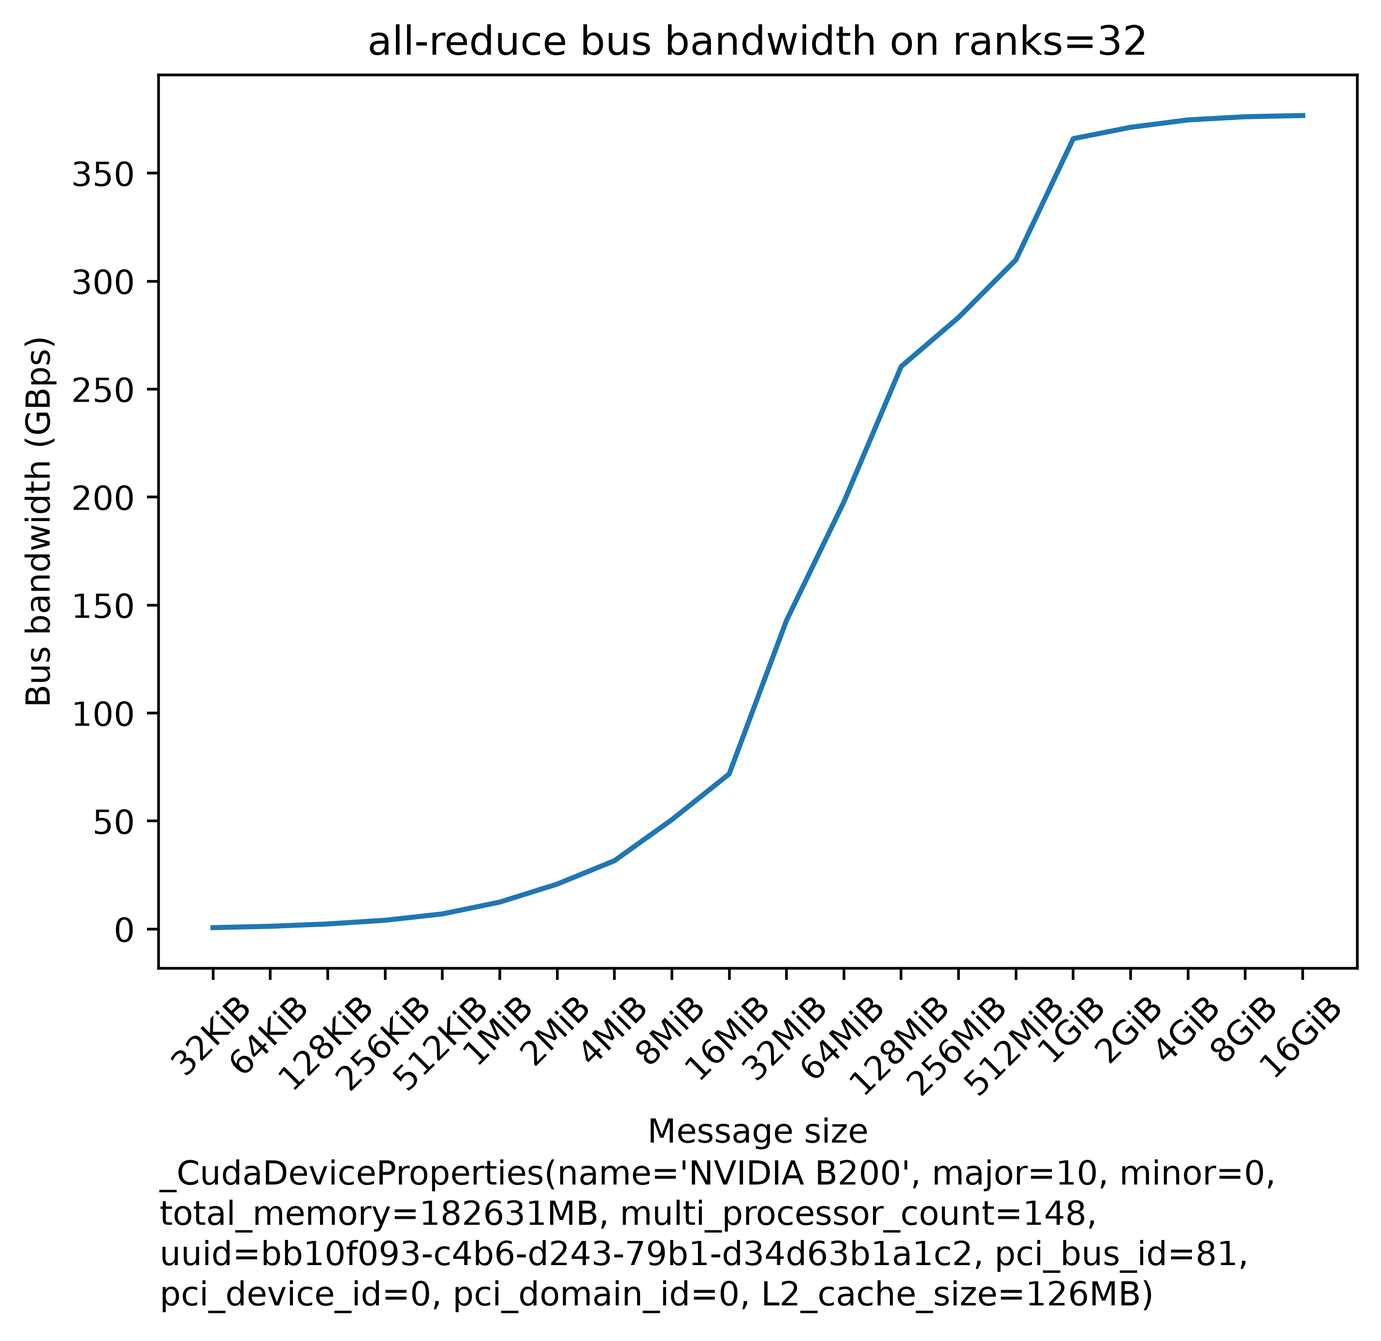
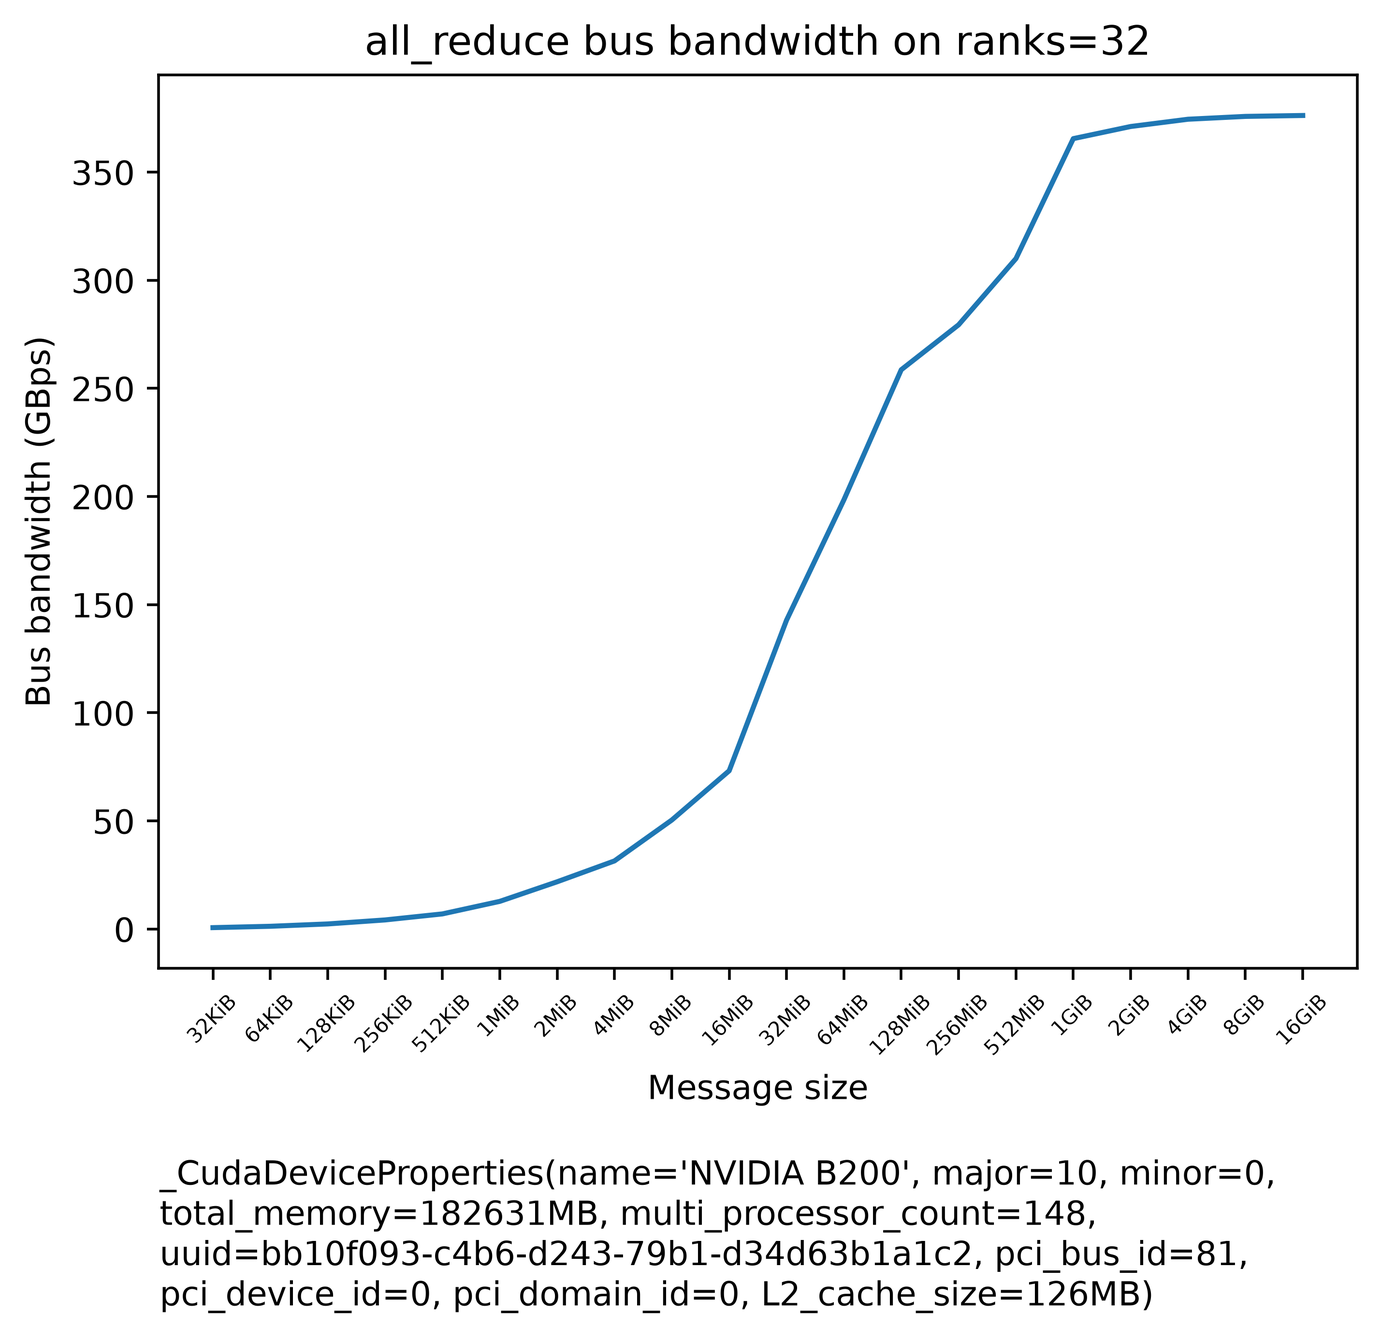
updates

diff --git a/network/benchmarks/README.md b/network/benchmarks/README.md
@@ -10,32 +10,45 @@
 
 footnote: Its previous incarnation was known as `all_reduce_bench.py` as it measured just the all-reduce collective.
 
-On 4 8x-B200 nodes it give us:
+On 4 8x B200 nodes (`torch=2.14.1+cu130`, `cuda=13.0`, `nccl=2.30.7`, 30 seconds for the whole sweep) it gives us:
 ```
-The average bandwidth of all_reduce over 32 ranks (5 warmups / 20 trials, up to 10 queued calls per trial):
+The average bandwidth and the per-call latency of all_reduce over 32 ranks (at least 5 warmups / 20 trials, up to 10 queued calls per trial):
 
-| payload |    busbw   |    algbw   |
-| ------: | ---------: | ---------: |
-|   32KiB |   0.65GBps |   0.33GBps |
-|   64KiB |   1.27GBps |   0.66GBps |
-|  128KiB |   2.35GBps |   1.21GBps |
-|  256KiB |   4.06GBps |   2.10GBps |
-|  512KiB |   6.99GBps |   3.61GBps |
-|    1MiB |  12.47GBps |   6.44GBps |
-|    2MiB |  20.79GBps |  10.73GBps |
-|    4MiB |  31.63GBps |  16.33GBps |
-|    8MiB |  50.61GBps |  26.12GBps |
-|   16MiB |  71.80GBps |  37.06GBps |
-|   32MiB | 142.90GBps |  73.76GBps |
-|   64MiB | 197.77GBps | 102.07GBps |
-|  128MiB | 260.50GBps | 134.45GBps |
-|  256MiB | 283.23GBps | 146.18GBps |
-|  512MiB | 309.91GBps | 159.95GBps |
-|    1GiB | 365.99GBps | 188.90GBps |
-|    2GiB | 371.26GBps | 191.62GBps |
-|    4GiB | 374.66GBps | 193.37GBps |
-|    8GiB | 376.14GBps | 194.14GBps |
-|   16GiB | 376.71GBps | 194.43GBps |
+| payload |   busbw    |   algbw    |              latency              | calls |
+|         |            |            |   median  |    p99    |    mean   |       |
+| ------: | ---------: | ---------: | --------: | --------: | --------: | ----: |
+|      8B |            |            |    81.9us |    88.0us |    81.9us |   810 |
+|     16B |            |            |    81.6us |    89.4us |    81.7us |   828 |
+|     32B |            |            |    82.0us |    91.8us |    82.2us |   783 |
+|     64B |            |            |    82.5us |    92.7us |    82.8us |   783 |
+|    128B |            |            |    83.0us |    89.8us |    83.3us |   792 |
+|    256B |            |            |    83.9us |    94.5us |    83.9us |   774 |
+|    512B |            |            |    84.1us |    98.5us |    84.8us |   783 |
+|    1KiB |            |            |    85.4us |    90.1us |    85.6us |   810 |
+|    2KiB |            |            |    89.5us |    95.3us |    89.7us |   738 |
+|    4KiB |            |            |    99.3us |   105.1us |    99.3us |   666 |
+|    8KiB |            |            |   102.3us |   114.8us |   102.4us |   765 |
+|   16KiB |            |            |   102.4us |   118.8us |   103.9us |   711 |
+|   32KiB |   0.64GBps |   0.33GBps |   104.5us |   119.7us |   105.4us |   738 |
+|   64KiB |   1.27GBps |   0.65GBps |   106.5us |   123.8us |   107.2us |   504 |
+|  128KiB |   2.35GBps |   1.21GBps |   114.6us |   130.6us |   115.1us |   252 |
+|  256KiB |   4.20GBps |   2.17GBps |   128.1us |   138.3us |   128.4us |   126 |
+|  512KiB |   6.99GBps |   3.61GBps |   151.7us |   168.2us |   153.2us |   126 |
+|    1MiB |  12.78GBps |   6.60GBps |   165.9us |   187.0us |   167.0us |   153 |
+|    2MiB |  21.84GBps |  11.27GBps |   193.1us |   205.1us |   193.8us |   162 |
+|    4MiB |  31.49GBps |  16.25GBps |   261.3us |   281.2us |   262.9us |   171 |
+|    8MiB |  50.40GBps |  26.01GBps |   331.8us |   344.1us |   332.7us |   144 |
+|   16MiB |  73.17GBps |  37.77GBps |   452.7us |   469.2us |   454.2us |   180 |
+|   32MiB | 142.79GBps |  73.70GBps |   473.2us |   498.5us |   474.8us |   162 |
+|   64MiB | 198.44GBps | 102.42GBps |   686.2us |   709.2us |   688.0us |   180 |
+|  128MiB | 258.60GBps | 133.47GBps |  1027.2us |  1068.6us |  1029.2us |   140 |
+|  256MiB | 279.38GBps | 144.20GBps |  1961.0us |  2112.0us |  1960.1us |    60 |
+|  512MiB | 310.01GBps | 160.00GBps |  3428.2us |  3822.2us |  3452.6us |    20 |
+|    1GiB | 365.47GBps | 188.63GBps |  5801.0us |  5926.7us |  5806.3us |    20 |
+|    2GiB | 371.07GBps | 191.52GBps | 11307.0us | 11423.6us | 11319.9us |    20 |
+|    4GiB | 374.44GBps | 193.26GBps | 22362.0us | 22451.0us | 22376.0us |    20 |
+|    8GiB | 375.75GBps | 193.93GBps | 44532.8us | 44775.3us | 44549.5us |    20 |
+|   16GiB | 376.17GBps | 194.15GBps | 88813.6us | 89220.5us | 88832.0us |    20 |
 ```
 
 Read the normalized `busbw` column rather than `algbw` - [PERFORMANCE.md](https://github.com/NVIDIA/nccl-tests/blob/master/doc/PERFORMANCE.md#bandwidth) explains why. Like `nccl-tests`, the benchmark measures a unidirectional bandwidth, so compare it against the advertised unidirectional peak throughput, not the bidirectional (duplex) one.
@@ -51,7 +64,7 @@ Here is the same benchmark on a single 8x H200 node (`torch=2.14.0+cu130`, `cuda
 
 Note the linear y-axis compresses everything below ~100GBps into the bottom of the plot, so the small-payload end - the part that matters for gradient bucketing - is easier to read off the `default` column of the table in [How the bandwidth is measured](#how-the-bandwidth-is-measured), measured on the same node, than off the curve. That sweep tops out at 482.35GBps, which is *above* the 450GBps unidirectional [NVLink 4](../README.md#nvlink) spec rather than below it; see [SHARP](../README.md#sharp) for why, and for what the same node measures with it disabled.
 
-[Inter-node speed depends on intra-node speed](../README.md#inter-node-speed-depends-on-intra-node-speed) explains why a 4 node-benchmark (32 ranks) tops out at 376.71GBps when a single node (8 ranks) of the same B200s reaches 838.97GBps, and what the number means for each NIC.
+[Inter-node speed depends on intra-node speed](../README.md#inter-node-speed-depends-on-intra-node-speed) explains why a 4 node-benchmark (32 ranks) tops out at 376.17GBps when a single node (8 ranks) of the same B200s reaches 839.00GBps, and what the number means for each NIC.
 
 For launching examples please see the top of [torch-dist-bench.py](torch-dist-bench.py). You can interrupt the benchmark with Ctrl-C, and it'll still report the results it measured up to that point.
 
@@ -115,6 +128,21 @@ And all-reduce is the best case: NCCL gives only all-reduce its tree algorithm, 
 
 ![all-reduce-bench latency 8x H200](images/all-reduce-bench-latency-8xh200.png)
 
+On B200s the latency also shows what it costs to leave the node. Here is the all-reduce latency on one 8x B200 node and on 4 of them, from the same run as the table at the top:
+
+| payload | 8 ranks<br>median | 8 ranks<br>p99 | 32 ranks<br>median | 32 ranks<br>p99 | 32 / 8<br>median |
+| ------: | ----------------: | -------------: | -----------------: | --------------: | ---------------: |
+|      8B |            23.0µs |         25.1µs |             81.9µs |          88.0µs |             3.6x |
+|    1KiB |            29.5µs |         31.8µs |             85.4µs |          90.1µs |             2.9x |
+|   16KiB |            30.7µs |         32.8µs |            102.4µs |         118.8µs |             3.3x |
+|  128KiB |            32.8µs |         34.8µs |            114.6µs |         130.6µs |             3.5x |
+|  512KiB |            35.8µs |         38.0µs |            151.7µs |         168.2µs |             4.2x |
+|    1MiB |            35.9µs |         39.8µs |            165.9µs |         187.0µs |             4.6x |
+|    4MiB |            60.4µs |         62.6µs |            261.3µs |         281.2µs |             4.3x |
+|   16MiB |           104.4µs |        107.2µs |            452.7µs |         469.2µs |             4.3x |
+
+Up to 16MiB a call takes 2.9-4.6 times as long once it crosses the network, and even an 8B all-reduce takes 82µs instead of 23µs.
+
 #### How the latency is measured
 
 - Each call's time is the time from the end of the previous queued call to its own end, as in `nccl-tests`' per-iteration timing (`-I 1`), which it reports in its `i_*` columns, and as the median in its `-J` JSON output. The first call of a trial is left out, and a 1-element all-reduce after the busy wait lines the ranks up on the GPU before it: otherwise a rank whose busy wait ends first spends the difference waiting in its first calls - in one call for most collectives, but in up to ranks-1 calls for `batch_isend_irecv`, whose ring passes the wait on one rank per call.
@@ -171,35 +199,106 @@ The root is rank 0, and `batch_isend_irecv` has each rank send to the next rank 
 
 As in `nccl-tests`, the 1/n pieces are rounded down to a multiple of 16 bytes, so payloads with less than 16 bytes per rank are skipped - those below 128B on 8 ranks - and with a number of ranks that isn't a power of 2, `all_gather`, `gather`, `reduce_scatter`, `scatter` and `all_to_all` move a little less than the payload, and the table reports what they did move.
 
-Here are all nine on an 8x B200 node (`torch=2.14.1+cu130`, `nccl=2.30.7`):
+Here are all nine on an 8x B200 node (`torch=2.14.1+cu130`, `nccl=2.30.7`, 2 minutes for the whole sweep), as the benchmark prints them - the `busbw` and the latency median of each collective at every payload, then the summary:
+
+```
+The average bandwidth and the per-call latency of 9 collectives over 8 ranks (at least 5 warmups / 20 trials, up to 10 queued calls per trial):
+
+busbw, GBps
+|  pay   |  all_  |  all_  | reduce_ | all_to | broad  | reduce | gather | scatter | batch  |
+|  load  | reduce | gather | scatter |  _all  |  cast  |        |        |         | _isend |
+|        |        |        |         |        |        |        |        |         | _irecv |
+| -----: | -----: | -----: | ------: | -----: | -----: | -----: | -----: | ------: | -----: |
+|  32KiB |   2.17 |   1.64 |    1.70 |   2.45 |   2.78 |   2.97 |   3.68 |    2.67 |   2.34 |
+|  64KiB |   4.18 |   3.12 |    3.22 |   4.59 |   5.28 |   5.24 |   6.84 |    4.97 |   4.22 |
+| 128KiB |   8.13 |   6.12 |    6.29 |   8.33 |  10.40 |  10.40 |  13.04 |    9.92 |   7.69 |
+| 256KiB |  15.91 |  11.90 |   12.31 |  13.11 |  19.00 |  20.45 |  20.78 |   14.58 |  15.11 |
+| 512KiB |  29.50 |  21.65 |   22.25 |  23.85 |  36.08 |  36.36 |  37.16 |   27.18 |  25.00 |
+|   1MiB |  58.93 |  43.53 |   44.73 |  42.67 |  71.98 |  72.89 |  65.03 |   48.68 |  38.80 |
+|   2MiB | 106.27 |  76.21 |   80.68 |  82.44 | 108.21 | 112.18 | 129.13 |   92.42 |  54.07 |
+|   4MiB | 131.71 | 116.90 |  126.13 | 137.51 | 143.11 | 151.16 | 232.74 |  164.62 |  69.05 |
+|   8MiB | 201.12 | 156.61 |  169.33 | 209.13 | 225.24 | 237.76 | 354.29 |  259.37 |  77.06 |
+|  16MiB | 296.16 | 294.05 |  285.91 | 284.06 | 315.35 | 329.76 | 469.87 |  372.69 |  81.14 |
+|  32MiB | 364.90 | 252.67 |  264.12 | 360.63 | 385.89 | 402.28 | 556.43 |  494.93 |  83.57 |
+|  64MiB | 421.74 | 418.71 |  419.83 | 434.48 | 474.91 | 486.08 | 630.14 |  572.21 |  84.83 |
+| 128MiB | 591.12 | 556.63 |  560.30 | 491.21 | 537.97 | 550.18 | 668.70 |  595.42 | 167.76 |
+| 256MiB | 659.60 | 582.00 |  591.78 | 531.85 | 557.36 | 570.34 | 692.03 |  632.65 | 332.74 |
+| 512MiB | 703.05 | 597.64 |  612.24 | 555.99 | 561.76 | 582.73 | 702.41 |  667.78 | 624.07 |
+|   1GiB | 726.53 | 609.48 |  624.93 | 606.00 | 560.04 | 589.18 | 763.36 |  706.41 | 640.10 |
+|   2GiB | 741.30 | 629.10 |  656.15 | 608.20 | 602.80 | 638.31 | 711.24 |  700.79 | 649.89 |
+|   4GiB | 749.77 | 644.07 |  676.61 | 645.36 | 637.73 | 667.94 | 713.73 |  712.37 | 654.43 |
+|   8GiB | 833.39 | 655.67 |  685.19 | 654.13 | 664.05 | 686.42 | 716.57 |  715.36 | 657.03 |
+|  16GiB | 840.18 | 661.74 |  689.72 | 658.62 | 674.19 | 688.60 | 718.37 |  717.23 | 658.47 |
+
+latency median, us
+|  pay   |   all_  |   all_  | reduce_ |  all_to |  broad  |  reduce |  gather | scatter |  batch  |
+|  load  |  reduce |  gather | scatter |   _all  |   cast  |         |         |         |  _isend |
+|        |         |         |         |         |         |         |         |         |  _irecv |
+| -----: | ------: | ------: | ------: | ------: | ------: | ------: | ------: | ------: | ------: |
+|     8B |    23.6 |         |         |         |    12.3 |    11.6 |         |         |    16.4 |
+|    16B |    23.5 |         |         |         |    12.3 |    11.6 |         |         |    16.4 |
+|    32B |    23.6 |         |         |         |    12.3 |    11.6 |         |         |    16.4 |
+|    64B |    27.6 |         |         |         |    12.3 |    11.6 |         |         |    16.5 |
+|   128B |    28.7 |    19.8 |    19.7 |    16.4 |    12.3 |    11.6 |    12.3 |    15.4 |    16.4 |
+|   256B |    28.7 |    20.4 |    19.8 |    16.4 |    12.3 |    11.6 |    12.2 |    15.4 |    16.4 |
+|   512B |    28.7 |    20.5 |    20.4 |    16.4 |    12.3 |    11.6 |    12.3 |    15.4 |    16.4 |
+|   1KiB |    29.7 |    20.5 |    20.5 |    16.4 |    12.3 |    12.3 |    12.3 |    15.4 |    16.5 |
+|   2KiB |    29.9 |    20.5 |    20.5 |    16.4 |    12.4 |    12.3 |    12.3 |    15.4 |    17.5 |
+|   4KiB |    30.0 |    20.5 |    20.5 |    16.4 |    14.3 |    14.3 |    12.3 |    15.4 |    18.4 |
+|   8KiB |    30.7 |    20.6 |    20.5 |    16.4 |    14.4 |    15.4 |    12.3 |    15.4 |    19.5 |
+|  16KiB |    30.7 |    21.5 |    20.6 |    16.4 |    14.4 |    15.4 |    12.3 |    15.4 |    20.5 |
+|  32KiB |    30.8 |    21.8 |    21.5 |    17.4 |    16.4 |    15.5 |    12.3 |    15.4 |    23.6 |
+|  64KiB |    31.8 |    22.6 |    22.5 |    17.5 |    16.5 |    16.5 |    12.3 |    16.4 |    24.7 |
+| 128KiB |    32.8 |    23.6 |    22.6 |    19.4 |    17.4 |    16.5 |    13.5 |    16.4 |    26.6 |
+| 256KiB |    34.0 |    24.6 |    23.8 |    22.7 |    19.4 |    18.4 |    15.5 |    20.7 |    28.7 |
+| 512KiB |    36.4 |    26.6 |    25.6 |    24.6 |    19.5 |    18.6 |    16.4 |    21.5 |    31.7 |
+|   1MiB |    36.8 |    26.6 |    25.7 |    26.7 |    19.6 |    19.3 |    18.4 |    24.5 |    38.9 |
+|   2MiB |    38.9 |    28.7 |    27.6 |    27.9 |    24.7 |    23.7 |    18.4 |    24.7 |    51.2 |
+|   4MiB |    60.4 |    36.8 |    33.9 |    32.8 |    32.8 |    30.9 |    20.5 |    27.7 |    71.7 |
+|   8MiB |    77.8 |    51.3 |    48.2 |    41.0 |    38.1 |    36.8 |    24.7 |    33.9 |   122.8 |
+|  16MiB |   103.8 |    55.3 |    56.3 |    57.3 |    51.1 |    49.0 |    35.6 |    44.0 |   229.4 |
+|  32MiB |   166.0 |   122.9 |   118.1 |    88.1 |    78.8 |    75.9 |    57.3 |    64.5 |   438.4 |
+|  64MiB |   284.7 |   145.4 |   144.4 |   142.4 |   131.1 |   133.1 |    98.3 |   109.6 |   833.8 |
+| 128MiB |   402.8 |   216.1 |   215.1 |   248.9 |   233.5 |   235.6 |   179.3 |   204.8 |   838.9 |
+| 256MiB |   718.9 |   408.6 |   404.5 |   451.6 |   441.4 |   446.3 |   341.6 |   390.1 |   839.4 |
+| 512MiB |  1345.5 |   795.5 |   775.2 |   859.1 |   860.9 |   845.6 |   671.1 |   754.7 |   880.6 |
+|   1GiB |  2595.8 |  1549.3 |  1518.6 |  1555.9 |  2128.8 |  2016.3 |  1415.2 |  1353.7 |  1694.2 |
+|   2GiB |  5081.1 |  2999.3 |  2879.5 |  3098.6 |  3775.5 |  3555.3 |  2725.9 |  2750.5 |  3325.9 |
+|   4GiB | 10052.6 |  5853.7 |  5572.6 |  5836.8 |  6942.7 |  6619.1 |  5432.3 |  5336.1 |  6597.6 |
+|   8GiB | 18091.5 | 11482.1 | 11005.9 | 11518.0 | 13140.5 | 12708.4 | 10652.7 | 10623.0 | 13150.2 |
+|  16GiB | 35853.3 | 22769.6 | 21846.0 | 22860.8 | 25700.9 | 25147.9 | 21085.1 | 21192.7 | 26211.3 |
+```
+
+```
+Summary of 9 collectives over 8 ranks:
 
 fastest median latency
-
-| collective          | payload | fastest |
-| :------------------ | ------: | ------: |
-| `broadcast`         |      8B |  12.3µs |
-| `reduce`            |      8B |  12.3µs |
-| `gather`            |    128B |  14.3µs |
-| `all_to_all`        |    256B |  17.4µs |
-| `scatter`           |    128B |  17.4µs |
-| `batch_isend_irecv` |     64B |  18.4µs |
-| `reduce_scatter`    |    128B |  20.5µs |
-| `all_gather`        |    128B |  21.0µs |
-| `all_reduce`        |     16B |  24.5µs |
+|     collective    | payload | fastest |
+| :---------------- | ------: | ------: |
+| reduce            |      8B |  11.6us |
+| gather            |    256B |  12.2us |
+| broadcast         |      8B |  12.3us |
+| scatter           |    128B |  15.4us |
+| all_to_all        |    128B |  16.4us |
+| batch_isend_irecv |      8B |  16.4us |
+| reduce_scatter    |    128B |  19.7us |
+| all_gather        |    128B |  19.8us |
+| all_reduce        |     16B |  23.5us |
 
 busbw
-
-| collective          | payload |       peak | half-peak<br>payload |
-| :------------------ | ------: | ---------: | -------------------: |
-| `all_reduce`        |   16GiB | 839.56GBps |                64MiB |
-| `gather`            |    1GiB | 754.54GBps |                16MiB |
-| `scatter`           |   16GiB | 729.23GBps |                16MiB |
-| `reduce`            |   16GiB | 702.39GBps |                32MiB |
-| `reduce_scatter`    |   16GiB | 686.51GBps |                64MiB |
-| `broadcast`         |   16GiB | 686.30GBps |                32MiB |
-| `all_gather`        |   16GiB | 659.90GBps |                64MiB |
-| `batch_isend_irecv` |   16GiB | 657.38GBps |               256MiB |
-| `all_to_all`        |   16GiB | 639.74GBps |                32MiB |
+|     collective    | payload |    peak    | half-peak |
+|                   |         |            |  payload  |
+| :---------------- | ------: | ---------: | --------: |
+| all_reduce        |   16GiB | 840.18GBps |     64MiB |
+| gather            |    1GiB | 763.36GBps |     16MiB |
+| scatter           |   16GiB | 717.23GBps |     16MiB |
+| reduce_scatter    |   16GiB | 689.72GBps |     64MiB |
+| reduce            |   16GiB | 688.60GBps |     32MiB |
+| broadcast         |   16GiB | 674.19GBps |     32MiB |
+| all_gather        |   16GiB | 661.74GBps |     64MiB |
+| all_to_all        |   16GiB | 658.62GBps |     32MiB |
+| batch_isend_irecv |   16GiB | 658.47GBps |    256MiB |
+```
 
 The fastest median is the smallest latency median across the measured payloads. The half-peak payload is the smallest payload reaching half the collective's peak `busbw`, as in [Latency](#latency).
 
@@ -207,9 +306,9 @@ The fastest median is the smallest latency median across the measured payloads. 
 
 ![torch-dist-bench latency 8x B200](images/torch-dist-bench-latency-8xb200.png)
 
-The fastest `all_to_all`, which MoE dispatch and combine use, is 17.4µs, against 24.5µs for `all_reduce`, and the fastest `broadcast` and `reduce` are both 12.3µs, with `gather` at 14.3µs. `--sym-mem` brings `all_reduce`, `all_gather` and `reduce_scatter` down to 12.3µs and leaves the others' fastest payloads about where they were. At the peak, `all_gather` reaches 748.77GBps instead of 659.90GBps, while `reduce_scatter` tops out at 489.61GBps at 8GiB instead of 686.51GBps at 16GiB.
+The fastest `all_to_all`, which MoE dispatch and combine use, is 16.4µs, against 23.5µs for `all_reduce`, and the fastest `reduce`, `gather` and `broadcast` are 11.6µs, 12.2µs and 12.3µs. `--sym-mem` brings `all_reduce`, `all_gather` and `reduce_scatter` down to 11.6µs, moves the others' fastest payloads by less than 1µs, and makes `batch_isend_irecv` 1.8µs slower. At the peak, `all_gather` reaches 749.03GBps instead of 661.74GBps, while `reduce_scatter` tops out at 489.13GBps at 8GiB instead of 689.72GBps at 16GiB.
 
-`gather` peaks at 754.54GBps at 1GiB, above its 718.30GBps at 16GiB.
+`gather` peaks at 763.36GBps at 1GiB, above its 718.37GBps at 16GiB. `batch_isend_irecv` stays at 81-85GBps from 16MiB to 64MiB, under a third of any other collective there, and its median latency is flat at 834-839µs from 64MiB to 256MiB. It catches up only from 512MiB.
 
 Against `nccl-tests` built with NCCL 2.30.7 on an 8x B200 node - its per-iteration median and p99 (`-I 1`) for the latency, its default timing for the bandwidth - `all_reduce`, `all_gather`, `reduce_scatter`, `all_to_all`, `broadcast`, `reduce` and `gather` agree within about 1µs up to 1MiB and within 2% at 16GiB, and so do their p99s. Where they differ, it's because PyTorch runs the collective differently or `nccl-tests` times it differently:
 

diff --git a/todo.md b/todo.md
@@ -10,9 +10,7 @@ Grouped by the hardware a task needs, since that is usually what blocks it. The 
 
 - reference notes for any future attempt to force a collective onto the NIC path, which is harder than it looks: `NCCL_P2P_DISABLE=1` alone does not do it, because NCCL falls back P2P -> SHM -> network, so `NCCL_SHM_DISABLE=1` is needed as well, and even then libfabric's EFA provider serves intra-node traffic from the instance's shared memory unless `FI_EFA_ENABLE_SHM_TRANSFER=0`. Also confirm GPUDirect RDMA is actually active, since NCCL disables it when the accelerator-to-NIC distance exceeds its threshold and then stages through host RAM, and on a virtualized instance ACS cannot be turned off and redirects PCIe peer-to-peer traffic through the CPU root complex unless the adapter has ATS enabled - each of these changes what the measurement means.
 
-- **activation checkpoint offloading in HF Transformers** - document it alongside [Gradient Checkpointing](training/performance/README.md#gradient-checkpointing), which currently covers only the recompute trade. Two upstream PRs: [#48444](https://github.com/huggingface/transformers/pull/48444) "Add offload to gradient checkpointing" (qgallouedec) merged 2026-09-01, and its follow-up [#48461](https://github.com/huggingface/transformers/pull/48461) "act offload with full overlap" (draft as of 2026-09-01), which ports a more efficient implementation. **Deferred until the second one lands** - both the API and the performance story depend on it, and documenting the merged half alone would describe an implementation that is about to be replaced.
-  - When writing, reuse [ALST](https://arxiv.org/abs/2506.13996) Figure 7 for the GPU-memory demonstration: the same left/right PyTorch memory-profiler plot (normal vs activation-checkpoint offload to CPU) is already in [debug/pytorch.md](debug/pytorch.md) as `images/mem-profiler-llama-8b-ckpt-offload-cpu.png`. The hill vs flat pattern is the whole point - with offload, peak GPU memory stops depending on layer count. Cross-link rather than recapturing. The paper also carries the CPU-memory caveat (Llama-70B at seqlen=3M / 32 GPUs needs 915GiB of host RAM per node just for the offloaded checkpoints) and notes that the original monkey-patch used a blocking copy - [#48461](https://github.com/huggingface/transformers/pull/48461) is the overlap that was missing.
-  - The section already prices recompute at a 20-25% throughput drop, so the remaining question is throughput once the copies overlap with compute. That is a measurement, which is why this still sits in the 1-node group.
+- **activation checkpoint offloading: follow up on HF Transformers [#48461](https://github.com/huggingface/transformers/pull/48461)** - if "act offload with full overlap" lands, update the last sentence of the paragraph in [Offloading the activation checkpoints to CPU memory](training/performance/README.md#offloading-the-activation-checkpoints-to-cpu-memory) and its footnote, which still call the HF implementation inefficient.
 
 ## 2 nodes
 
